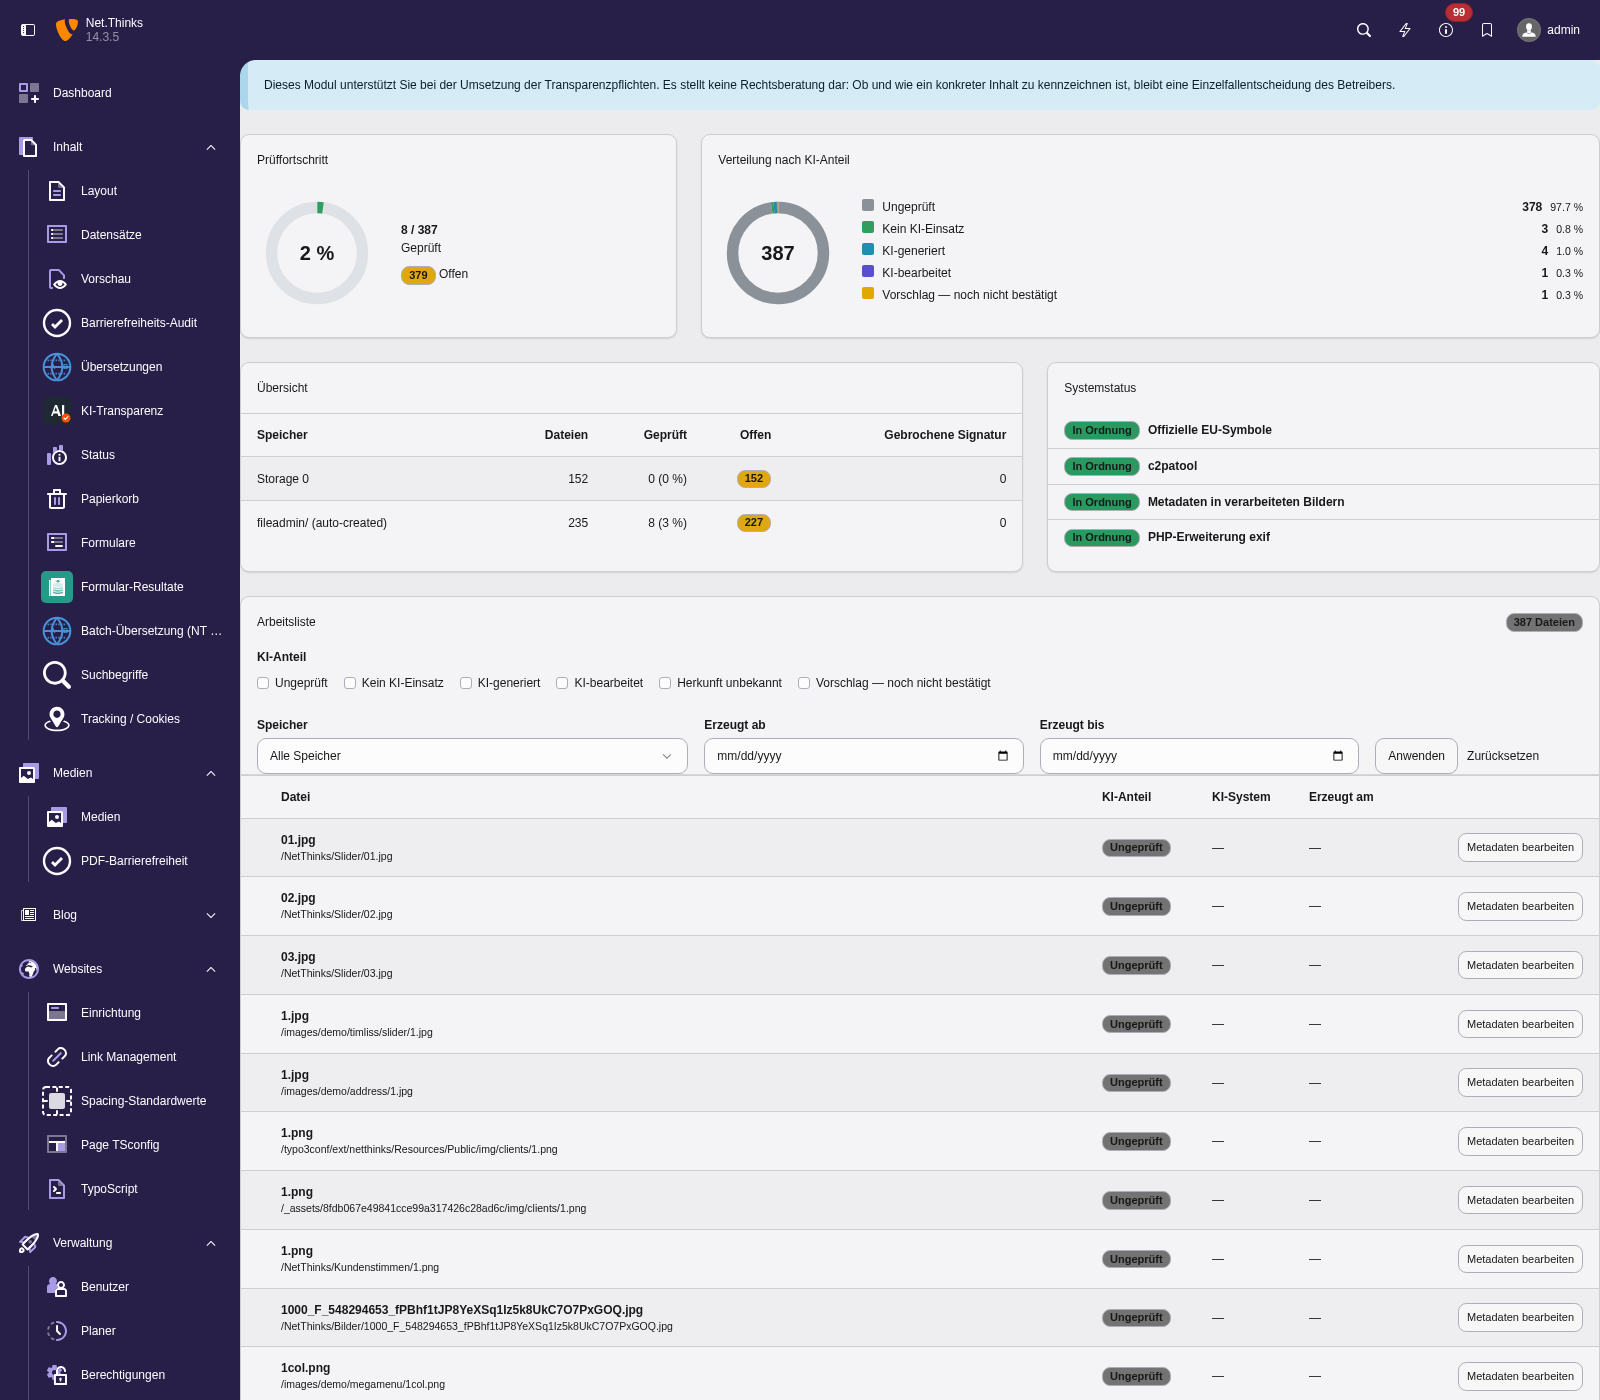
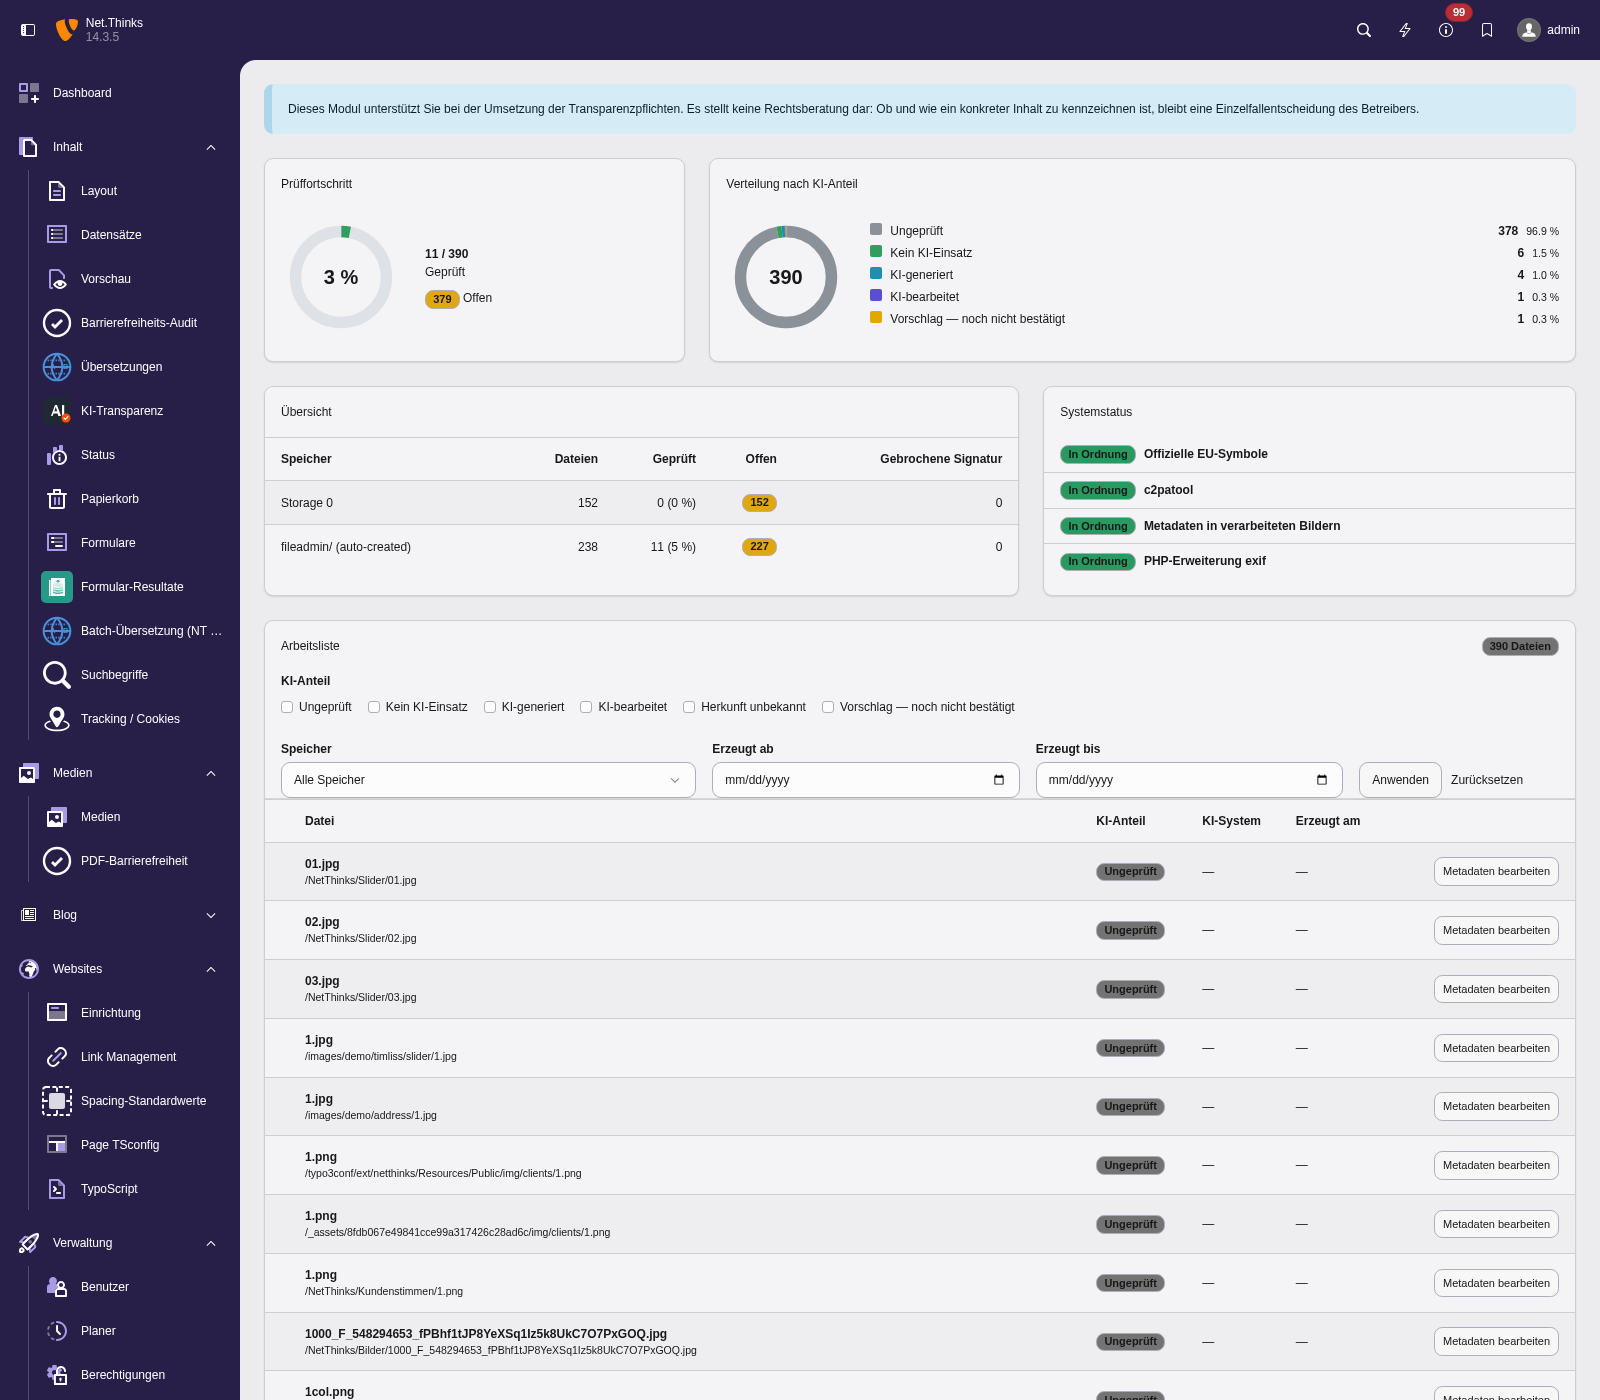
Aussenabstand im Modul; Screenshots entsprechend erneuert
Die Inhalte standen bisher ohne Abstand am Fensterrand — Kennzahlen, Karten
und Tabelle klebten links wie rechts an der Kante. Der Modulrahmen bekommt
jetzt Innenabstand (auf grossen Schirmen etwas mehr), ueber die
Bootstrap-Hilfsklassen des Backends, ohne eigenes Stylesheet.

Die Aufnahmen in der Dokumentation sind neu und zeigen ausserdem den Stand
ohne Formatvarianten: 390 statt 550 Dateien.

diff --git a/Resources/Private/Templates/Backend/Index.html b/Resources/Private/Templates/Backend/Index.html
@@ -2,7 +2,7 @@
 
 <f:variable name="ll">LLL:EXT:nt_aimark/Resources/Private/Language/locallang_mod.xlf:</f:variable>
 
-<div class="nt-aimark-module">
+<div class="nt-aimark-module p-3 p-xl-4">
 
     <div class="callout callout-info mb-4" role="note">
         <div class="callout-body"><f:translate key="{ll}disclaimer" /></div>
